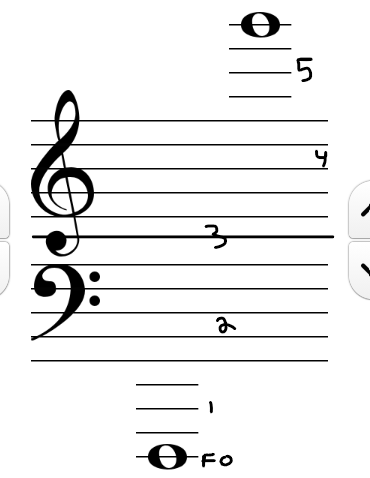
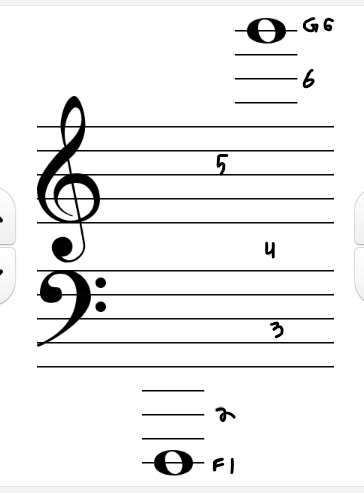
Added Ignore Fixed Screenshots Again for checking if identical

diff --git a/NoteIdentifierWebsite.py b/NoteIdentifierWebsite.py
@@ -1,4 +1,6 @@
 from pathlib import Path
+from PIL import Image
+import numpy as np
 from selenium import webdriver
 from selenium.webdriver.chrome.options import Options
 from selenium.webdriver.common.by import By
@@ -65,7 +67,7 @@ def click_note(note, accidental=None):
 # Only used once to gather initial screenshots
 # Manual naming to identify notes
 # name is the note that was inputted earlier
-def save_file(name):
+def save_file(name, saveLocation):
     num = input("Write a number for note value or type x to stop: ")
     search = True
     if len(name) > 1:
@@ -76,7 +78,7 @@ def save_file(name):
         else:
             print("Invalid accidental")
             search = False
-    path_Name = ("Screenshots\\" + name[0] + "_" + num)
+    path_Name = (saveLocation+"\\" + name[0] + "_" + num)
     file_path = Path(path_Name + '.png')
     while search and num != "x":
         if file_path.exists():
@@ -90,6 +92,10 @@ def save_file(name):
 
 # Loop to run through program to manually save screenshots
 def getScreenshots():
+    note_type = input("What type of note will be saved?\n(ex.whole, half ,quarter: ")
+    if not Path("./Screenshots_" + note_type).exists():
+        Path("Screenshots_" + note_type).mkdir()
+    savelocation = "./Screenshots_" + note_type
     note_input = None
     while note_input != 'x':
         note_input = input("Note: ")
@@ -99,14 +105,14 @@ def getScreenshots():
             filtered = filterInputNote(note_input)
 
         else:
-            save_file(note_input)
+            save_file(note_input, savelocation)
 
             # If note is not an accidental then filtered[0][1] does not exist and throws an error
             try:
                 click_note(filtered[0][0], filtered[0][1])
             except:
                 click_note(filtered[0][0])
-        numFiles('Screenshots')
+        numFiles(savelocation)
 
 
 # Counts the files in a directory (for max range on grand staff should be 37 with no accidentals, 85 with accidentals)
@@ -163,6 +169,42 @@ def generateMidiDict():
 # Saves a temporary screenshot of the current note value on screen and compares it to the already existing
 # screenshots in the folder.
 def checkScreenshot():
-    name = None
-    return name
+    # save temp screenshot of current canvas:
+    driver.find_element(By.TAG_NAME, "canvas").screenshot("./temp.png")
 
+    # Compare images in file
+    # https://cloudinary.com/guides/image-effects/beginners-guide-to-image-comparison-in-python
+    tempImage = np.array(Image.open('./temp.png'))
+
+    # loop variables
+    sameImage = False
+    files = list(Path("./Screenshots").iterdir())
+    fileNum = 0
+
+    # loops until image is the same or the file index gets too large and throws an error
+    while not sameImage:
+        try:
+            savedRefImg = np.array(Image.open(files[fileNum]))
+        except:
+            break
+        # Check if the shapes are the same and pixels are identical
+        if tempImage.shape == savedRefImg.shape and np.all(tempImage == savedRefImg):
+            sameImage = True
+        else:
+            fileNum +=1
+
+    # delete temp img
+    if Path("./temp.png").exists():
+        Path("./temp.png").unlink()
+    if sameImage:
+        return files[fileNum].stem
+    else:
+        return "The screenshot does not match any existing imgs"
+
+
+
+
+# current problem: screenshots with different note values (whole vs half vs quarter, etc.)
+# in the future different directories with images for each note value to compare
+
+getScreenshots()
